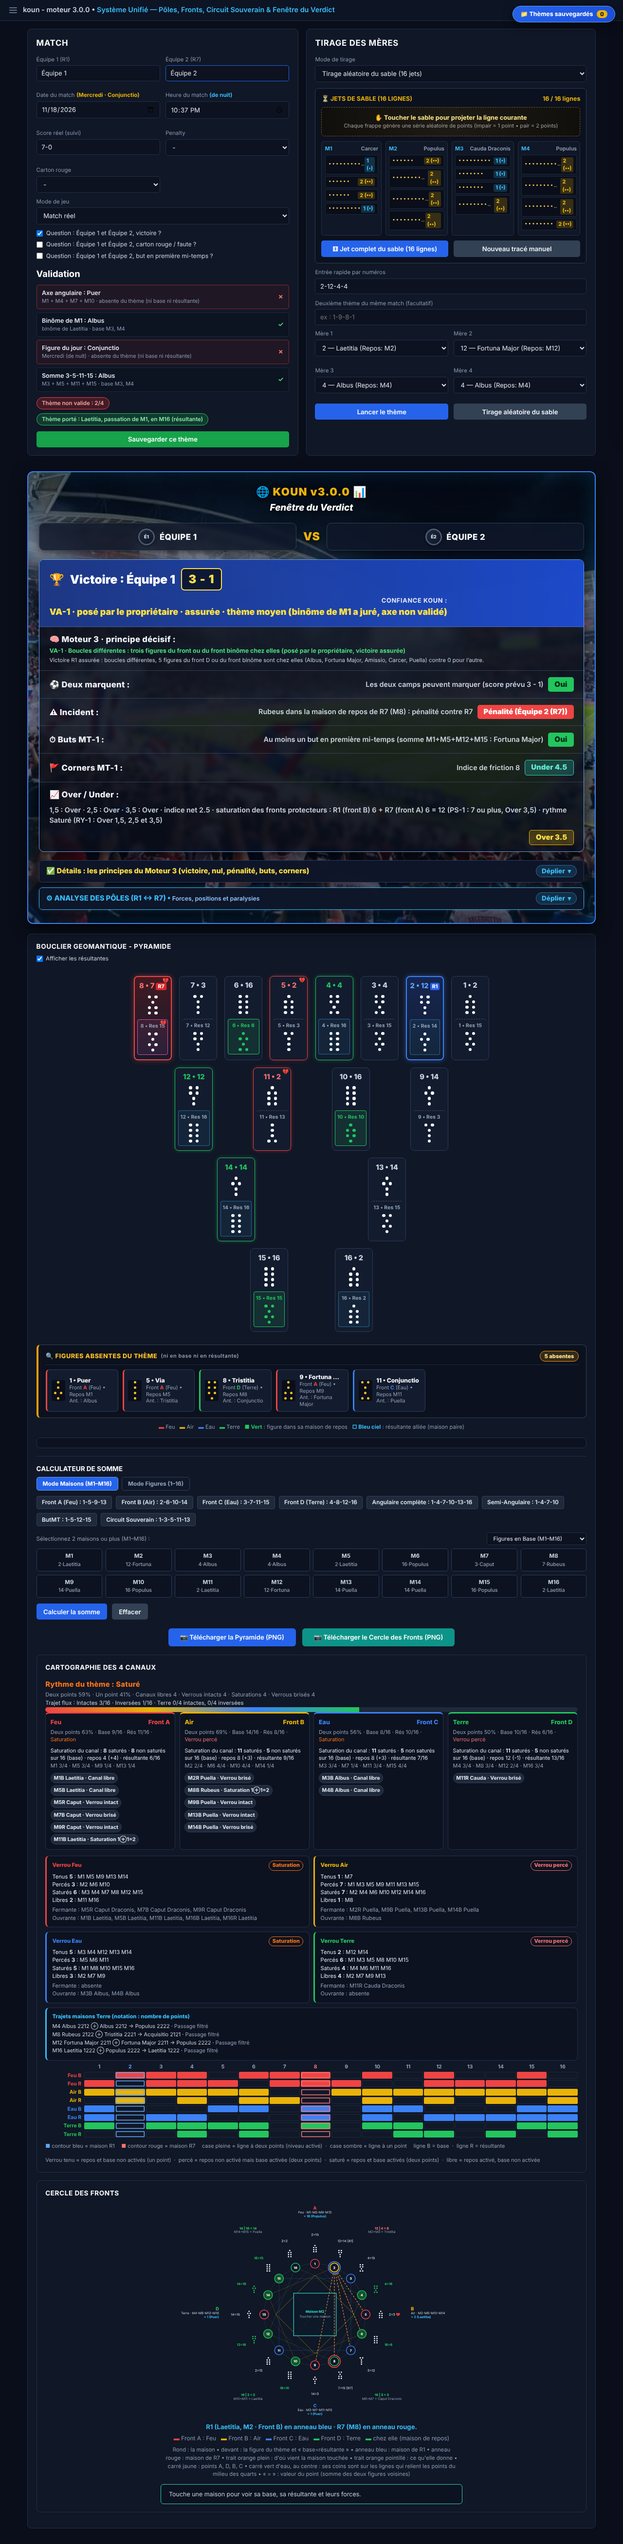
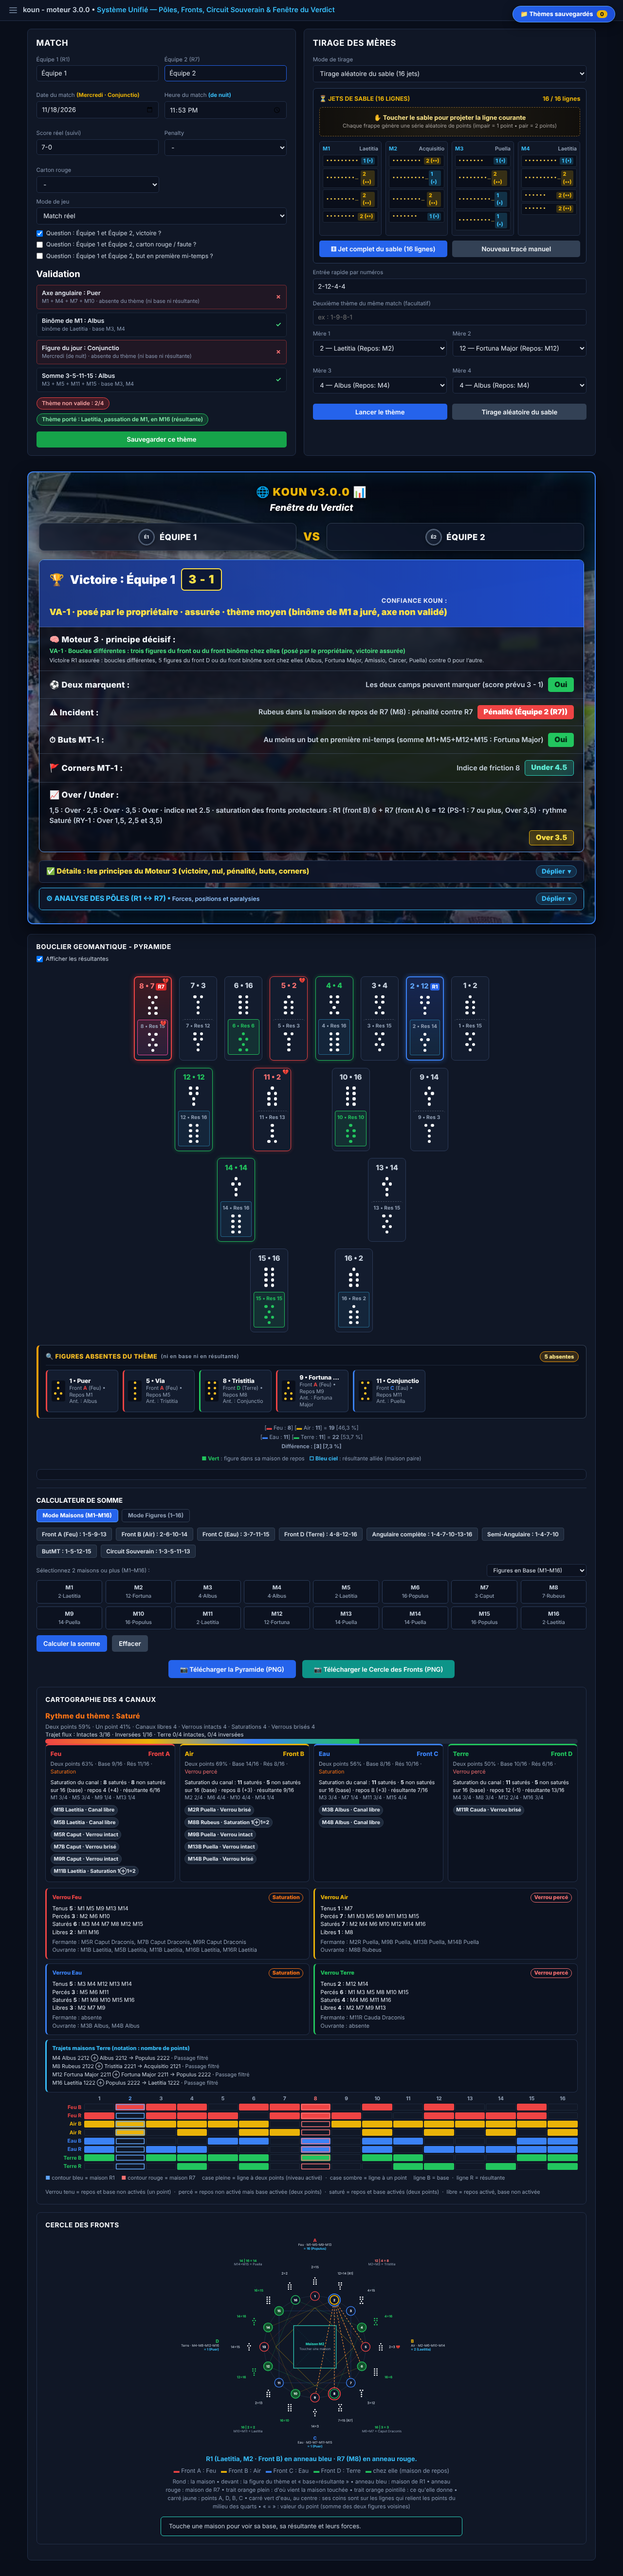
Tri par fiabilité : thèmes peu fiables mis de côté dans la liste sauvegardée, bilan séparé, évaluateur par fiabilité, étude du canal opposé sur les thèmes retenus
Claude-Session: https://claude.ai/code/session_01A8QESrv9EyjF1Fb7AMxeyN

diff --git a/koun-1/koun-moteur-3.0.0.html b/koun-1/koun-moteur-3.0.0.html
@@ -4291,8 +4291,9 @@
  const lireMoteur = (item) => {
  try {
  const figs = item.mVecs.map(v => KOUN3.fig(getFigByVec(v.split(",").map(Number)).num));
- const vv = KOUN3.verdict(KOUN3.lire(KOUN3.construireTheme(...figs)));
- return { verdict: vv.verdict, phase: vv.principe };
+ const LL = KOUN3.lire(KOUN3.construireTheme(...figs));
+ const vv = KOUN3.verdict(LL);
+ return { verdict: vv.verdict, phase: vv.principe, fiab: KOUN3.fiabilite(LL) };
  } catch (e) { return null; }
  };
  const issueReelle = (item) => {
@@ -4301,13 +4302,15 @@
  return +m[1] > +m[2] ? "1" : +m[1] < +m[2] ? "2" : "N";
  };
  let juges = 0, justes = 0, manquesNul = 0, manquesVic = 0, sansCas = 0;
+ const grp = { ret: { j: 0, ok: 0 }, cote: { j: 0, ok: 0 } };
  const cartes = list.map(item => {
  const d = lireMoteur(item), reel = issueReelle(item);
  const v = d ? d.verdict : null;
  const txt = v === "N" ? "Match nul" : v === "1" ? "Victoire " + escapeHTML(item.t1) : v === "2" ? "Victoire " + escapeHTML(item.t2) : "aucun principe ne tranche";
  let badge = "";
+ const aCote = !!(d && d.fiab && d.fiab.niveau === 0);
  if (reel) {
- juges++;
+ juges++; (aCote ? grp.cote : grp.ret).j++; if (v === reel) (aCote ? grp.cote : grp.ret).ok++;
  if (v === reel) { justes++; badge = `<span style="color:#4ade80; font-weight:800;">&#10003; concordant</span>`; }
  else {
  if (v === null) sansCas++; else if (reel === "N") manquesNul++; else manquesVic++;
@@ -4316,14 +4319,16 @@
  }
  }
  const cas = d && d.phase ? ` &bull; <strong>${escapeHTML(d.phase)}</strong>` : "";
- return `
- <div class="saved-theme-card">
+ const fb = d && d.fiab ? `<span style="color:${d.fiab.niveau === 2 ? "#4ade80" : d.fiab.niveau === 1 ? "#eab308" : "#94a3b8"}; font-weight:700;">thème ${d.fiab.libelle}</span>` : "";
+ const html = `
+ <div class="saved-theme-card"${aCote ? ' style="opacity:0.7;"' : ""}>
  <div class="saved-theme-top">
  <div class="saved-theme-match">${escapeHTML(item.t1)} vs ${escapeHTML(item.t2)} ${item.score ? `(${escapeHTML(item.score)})` : ""}</div>
  <span style="font-size:0.65rem; color:#eab308; font-weight:700;">${escapeHTML(item.date)} ${escapeHTML(item.time)}</span>
  </div>
  <div class="saved-theme-meta">${escapeHTML(item.verdictTxt)} &bull; Sauv. ${escapeHTML(item.savedAt)}</div>
  <div class="saved-theme-meta" style="color:#cbd5e1;">&#129504; Moteur actuel : ${txt}${cas} ${badge}</div>
+ <div class="saved-theme-meta">${fb}</div>
  <div class="saved-theme-mothers">M1–M4 : ${escapeHTML(item.mNames.join(" | "))}</div>
  <div class="saved-theme-actions">
  <button type="button" class="btn-blue" onclick="loadSavedTheme(${Number(item.id)})">Charger le thème</button>
@@ -4331,15 +4336,18 @@
  </div>
  </div>
  `;
+ return { html, aCote };
  });
  const bilan = juges
  ? `<div style="background:#0c1220; border:1px solid #23304a; border-radius:8px; padding:8px 10px; margin-bottom:8px; font-size:0.74rem; color:#e2e8f0; line-height:1.5;">
  <strong>&#129504; Moteur 3 sur vos thèmes sauvegardés avec un score :</strong> ${justes} concordants sur ${juges}.
+ <br>Thèmes fiables ou moyens (étudiés) : ${grp.ret.ok} concordants sur ${grp.ret.j}. Thèmes peu fiables (mis de côté) : ${grp.cote.ok} sur ${grp.cote.j}.
  ${juges - justes ? `<br>À côté : ${manquesNul} nul(s) manqué(s), ${manquesVic} victoire(s) mal donnée(s)${sansCas ? `, ${sansCas} sans cas` : ""}.` : ""}
  <br><button type="button" class="btn-slate" style="margin-top:4px; font-size:0.7rem;" onclick="exportSavedThemes()">&#11015; Exporter les thèmes (JSON)</button>
  </div>`
  : `<div style="margin-bottom:8px;"><button type="button" class="btn-slate" style="font-size:0.7rem;" onclick="exportSavedThemes()">&#11015; Exporter les thèmes (JSON)</button></div>`;
- container.innerHTML = bilan + cartes.join("");
+ const retenus = cartes.filter(c => !c.aCote).map(c => c.html), cote = cartes.filter(c => c.aCote).map(c => c.html);
+ container.innerHTML = bilan + retenus.join("") + (cote.length ? `<div style="margin:10px 0 6px; color:#94a3b8; font-size:0.74rem; font-weight:700;">Mis de côté : thèmes peu fiables (${cote.length})</div>` + cote.join("") : "");
  }
 
  function downloadCirclePNG() {

diff --git a/koun-1/outils/evaluer3.js b/koun-1/outils/evaluer3.js
@@ -12,6 +12,14 @@ console.log('  27 de développement :', D.j + '/' + D.n, '| toujours R1 :', DEV.
 console.log('  lot 1 (validation)  :', L.j + '/' + L.n, '| toujours R1 :', lot.filter(r => r.a === '1').length + '/' + L.n);
 console.log('  par principe, développement :', fmt(D.par));
 console.log('  par principe, lot 1          :', fmt(L.par));
+// Tri par fiabilité du thème (FI-1) : les thèmes fiables ou moyens sont étudiés, les thèmes peu fiables sont mis de côté.
+const tri = (set) => { const g = { 2: [], 1: [], 0: [] }; set.det.forEach(x => { const L = K3.lire(K3.construireTheme(...x.r.m.map(K3.fig))); g[K3.fiabilite(L).niveau].push(x); }); return g; };
+const triD = tri(D), triL = tri(L);
+const jt = (a) => a.filter(x => (x.v.verdict || '—') === x.r.a).length;
+console.log('  par fiabilité (développement + lot 1) :');
+[[2, 'fiables'], [1, 'moyens'], [0, 'peu fiables, mis de côté']].forEach(([n, lib]) => { const a = triD[n].concat(triL[n]); console.log('    ' + lib.padEnd(26) + jt(a) + '/' + a.length + ' (développement ' + jt(triD[n]) + '/' + triD[n].length + ', lot 1 ' + jt(triL[n]) + '/' + triL[n].length + ')'); });
+const ret = triD[2].concat(triD[1], triL[2], triL[1]);
+console.log('    étudiés (fiables + moyens) : ' + jt(ret) + '/' + ret.length);
 const sc = JSON.parse(fs.readFileSync(path.join(__dirname, '../validation/scores-reels.json'), 'utf8'));
 let b = 0, o15 = 0, o25 = 0, o35 = 0, mt = 0, nmt = 0, scoreOk = 0, issueOk = 0;
 const lignes = [];

diff --git a/koun-1/validation/VALIDATION.md b/koun-1/validation/VALIDATION.md
@@ -35,3 +35,8 @@ Fichier `lot-2.json`. Réel : victoire équipe 2, les deux équipes marquent, 5 
 - CO-1, tel qu'il était (principe le plus fort), retenait le thème 1-15-3-9 (VA-1 assuré) : verdict final faux, 0/1.
 - Ensuite, le propriétaire a posé un critère d'axe angulaire (somme M1+M4+M7+M10 en maison angulaire) à partir de ce match : CO-1 donne maintenant le bon verdict (victoire équipe 2, 0-4), mais ce match est devenu du développement. Il n'est plus une validation.
 - Au passage : VA-1 (assuré) n'a plus que 2 matchs justes sur 4 (dév. 1/2, lot 1 1/1, lot 2 0/1).
+
+## Tri par fiabilité du thème (règle du propriétaire)
+Les thèmes fiables (deux validations) et moyens (une) sont étudiés ; les thèmes peu fiables (aucune validation : binôme de M1 hors de son canal et somme de l'axe angulaire hors maison angulaire) sont classés de côté et ne servent pas à poser un principe. Ils restent comptés à part dans les mesures (`node outils/evaluer3.js`, bloc « par fiabilité »).
+Classement actuel (41 thèmes) : fiables 8 (moteur 7/8), moyens 22 (20/22), peu fiables 11 (7/11), mis de côté : 3-14-13-5, 6-4-10-16, 5-14-6-14, 7-5-9-6, 4-16-1-2, 4-7-10-10, 12-6-1-9, 13-7-3-13 (développement), 11-13-9-13, 7-16-3-12, 6-11-14-11 (lot 1). La page affiche la même séparation dans la liste des thèmes sauvegardés (thèmes peu fiables en fin de liste, bilan séparé).
+Étude du canal opposé refaite sur les thèmes étudiés (30) : concordance 1 : 3 gagnent, 0 perd ; concordance 2 : 0 gagne, 3 perdent ; concordance 3 : 1 gagne, 0 perd. L'inversion de polarité se retrouve aussi chez les thèmes mis de côté (2 gagnent à la concordance 1, 3 perdent à la concordance 2) : le tri ne la change pas. Toujours à valider sur un lot neuf.
